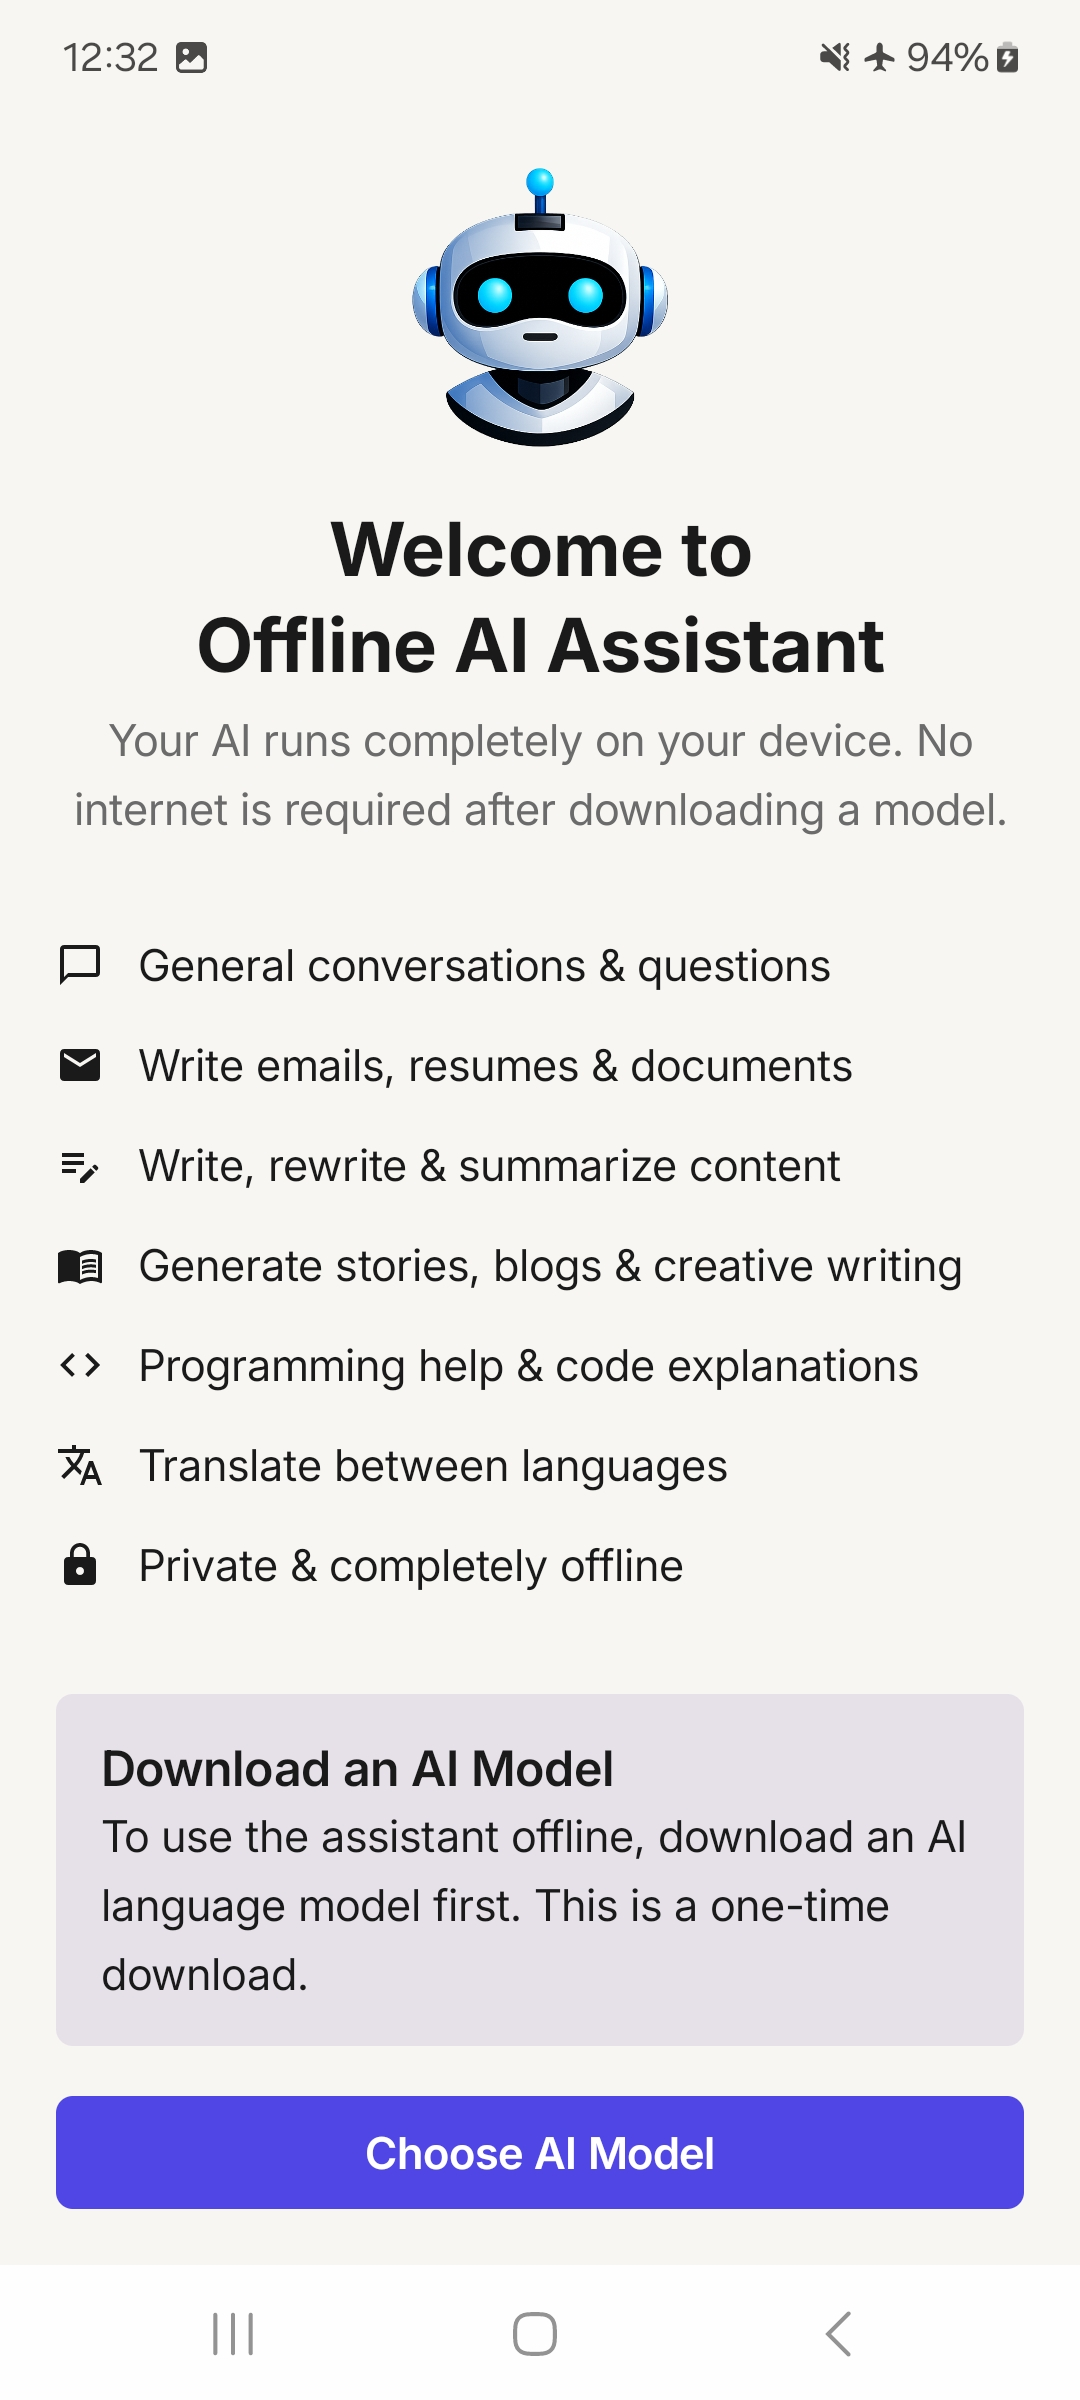
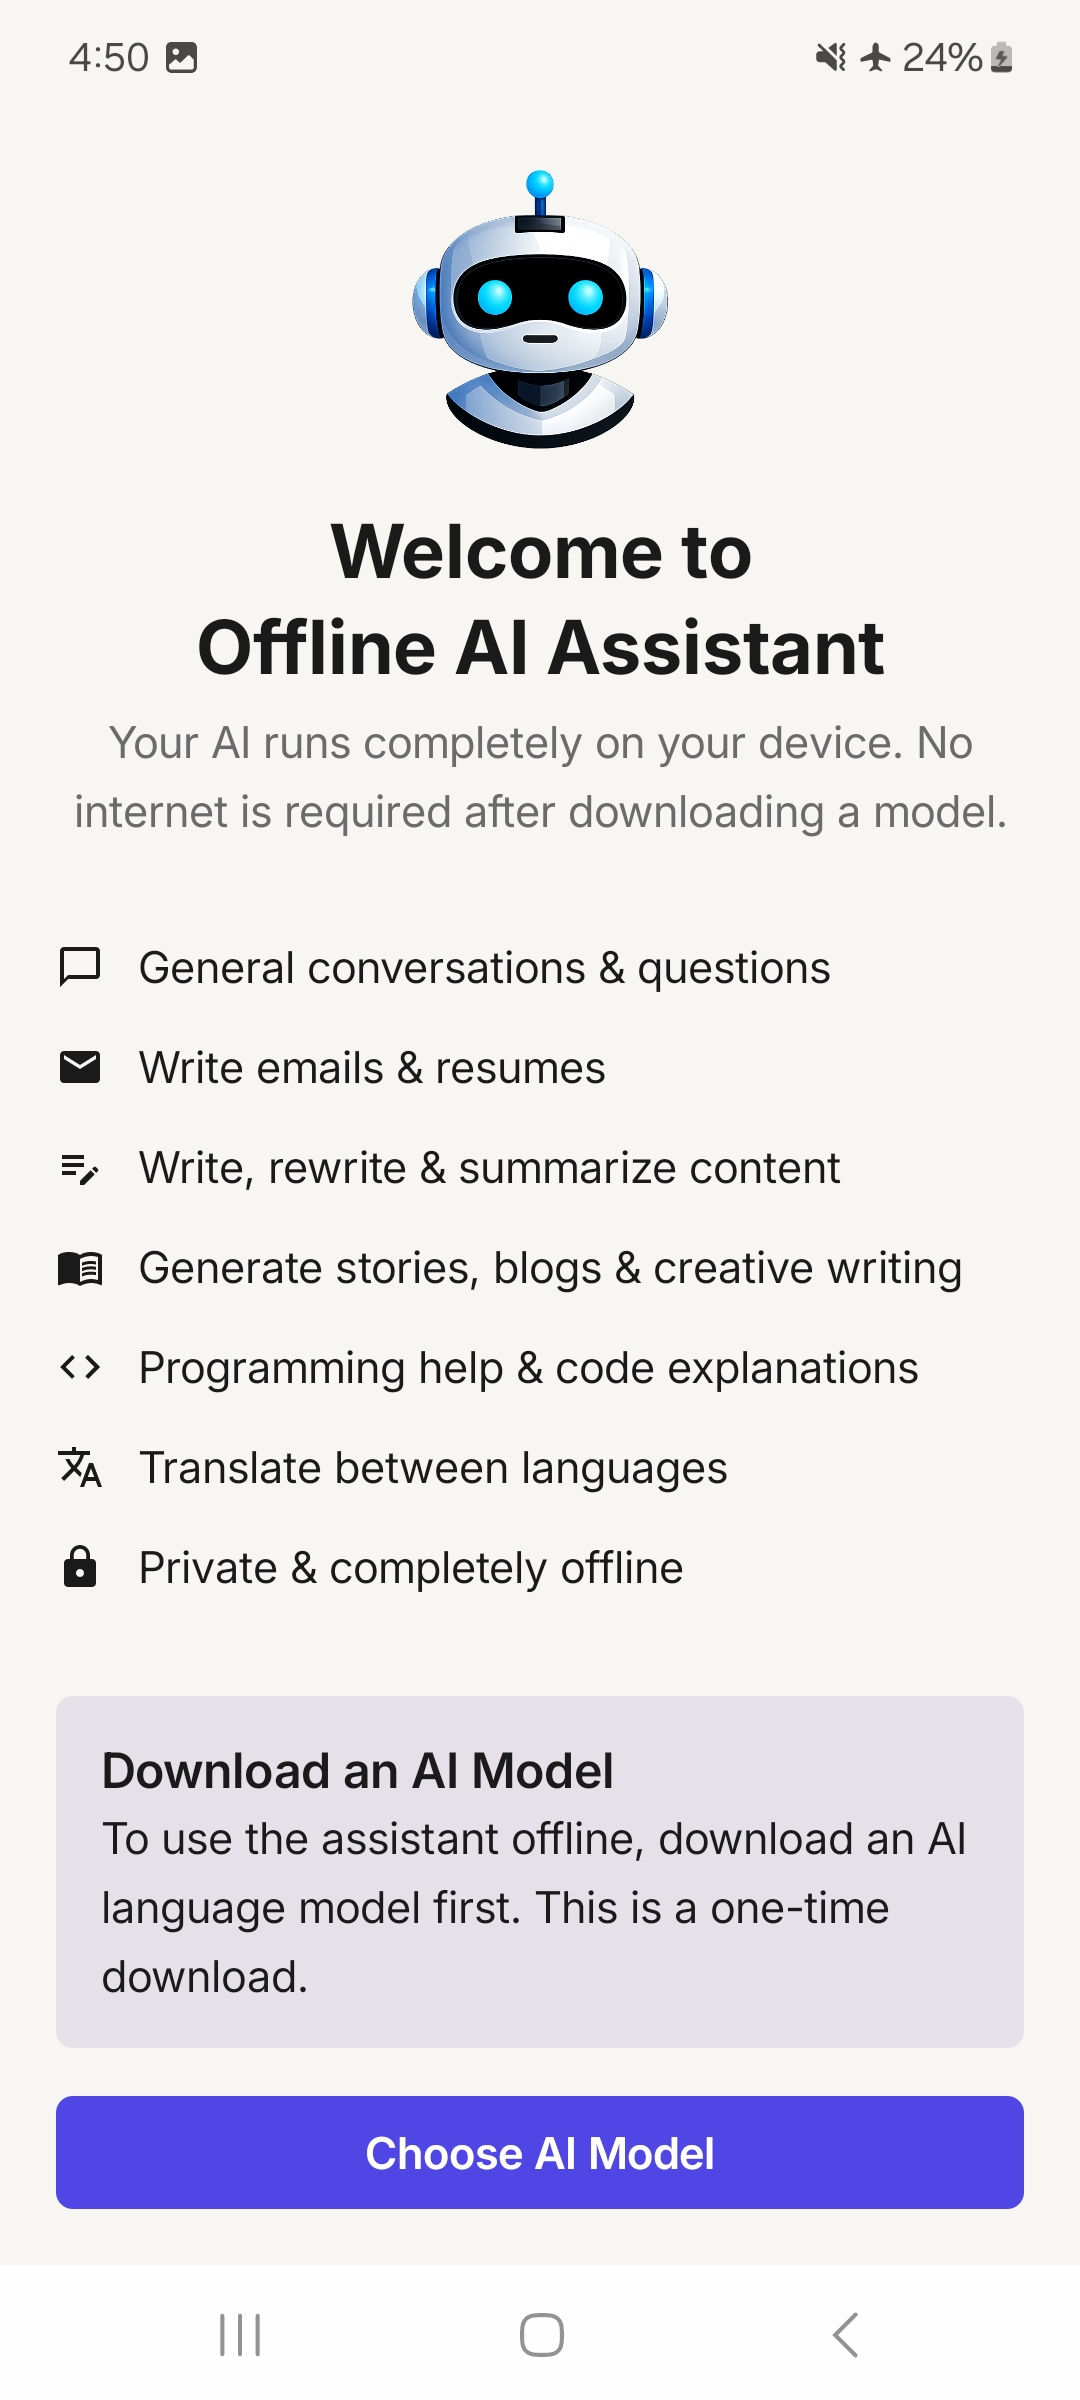
Fix typo

diff --git a/app/src/main/java/com/hazratbilal/offlineaiassistant/ui/features/welcome/WelcomeScreen.kt b/app/src/main/java/com/hazratbilal/offlineaiassistant/ui/features/welcome/WelcomeScreen.kt
@@ -99,7 +99,7 @@ fun WelcomeScreen(onChooseClick: () -> Unit) {
 
             FeatureItem(
                 icon = Icons.Default.Email,
-                text = "Write emails, resumes & documents"
+                text = "Write emails & resumes"
             )
 
             FeatureItem(